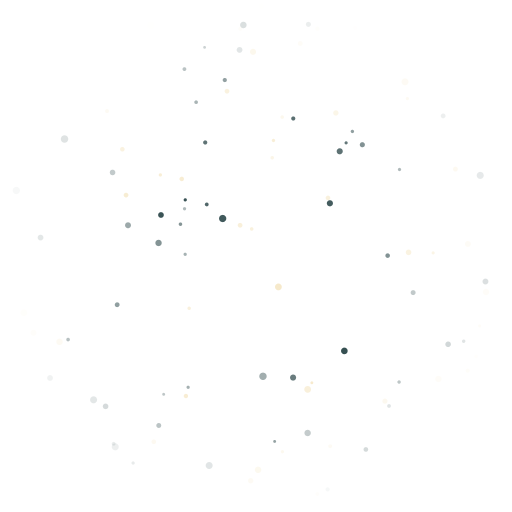
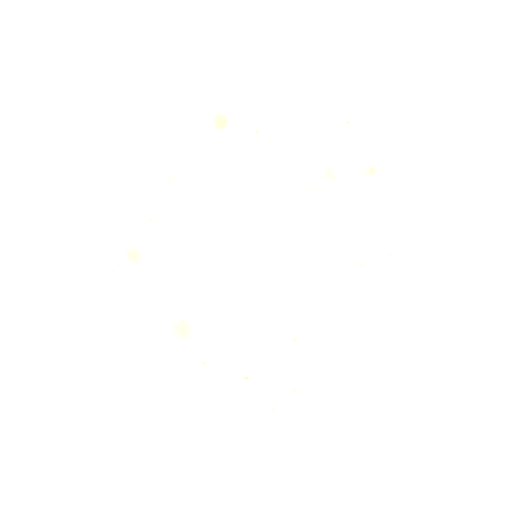
Generate the particles instead of drawing them
The hand-drawn particles sat on the orb instead of in it, and the reason
was the material, not the arrangement. They were opaque discs of flat
colour at a fixed alpha, three tints picked by hand, one of them
near-black. A speck of real dust is a soft bloom that ADDS light to
whatever is behind it, and three overlapping are brighter than one; a
solid #FFFFFF circle at 0.4 is none of that, and a dark one is worse,
because nothing in a shaft of light is darker than the air around it.

So the plates are generated now: fine luminous dust shot on black, with
soft-edged specks, a few blooming into bokeh, in mint, teal and pale
gold. Black is keyed to transparency rather than cut away:

  alpha = how bright the pixel is, so the plate's black becomes nothing
          and every bloom keeps its soft edge in the alpha channel
  rgb   = the pixel's own colour normalised back to full value, so a dim
          gold speck stays gold instead of greying out as it fades

Composited with ordinary source-over that is close to additive while
alpha is small, which is where nearly all of this art lives, so the dust
brightens the field rather than covering it. The key is rescaled from its
floor rather than cut at it, or the faintest dust ends at a visible step,
and a gamma lifts the small specks, which are most of them.

Two adjustments after looking at it:

The cores are knocked to a third and lifted back by half the radius. The
[…]

diff --git a/app/src/components/grain.tsx b/app/src/components/grain.tsx
@@ -86,12 +86,18 @@ const DUST = [
 const DUST_TILE = require("../../assets/checkin-dust-tile.png");
 const TILE = 256;
 
-/* Turn rates, in ms per revolution. Alternating sign, and none of them a
-   multiple of another, so the layers never line back up. */
+/*
+  Turn rates in ms per revolution, alternating sign, none of them a
+  multiple of another so the layers never line back up.
+
+  Three plates of the same material at falling opacity, rather than three
+  equal ones: stacked at full strength they sum to a haze. The one in
+  front carries the dust you read, the two behind it carry the movement.
+*/
 const DRIFT = [
-  { ms: 23000, dir: 1, burst: 1.95 },
-  { ms: 31000, dir: -1, burst: 2.35 },
-  { ms: 41000, dir: 1, burst: 1.65 },
+  { ms: 23000, dir: 1, burst: 1.95, op: 0.78 },
+  { ms: 31000, dir: -1, burst: 2.35, op: 0.6 },
+  { ms: 41000, dir: 1, burst: 1.65, op: 0.42 },
 ];
 
 /*
@@ -149,6 +155,7 @@ export function Dust({
           ms={layer.ms}
           dir={layer.dir}
           to={layer.burst}
+          op={layer.op}
           burst={burst}
         />
       ))}
@@ -200,6 +207,7 @@ function DustLayer({
   ms,
   dir,
   to,
+  op,
   burst,
 }: {
   source: number;
@@ -207,6 +215,7 @@ function DustLayer({
   ms: number;
   dir: number;
   to: number;
+  op: number;
   burst?: Animated.Value;
 }) {
   const spin = useLoop(ms);
@@ -237,6 +246,7 @@ function DustLayer({
           position: "absolute",
           width: size,
           height: size,
+          opacity: op,
           transform: [{ rotate: spinTo(spin, 360 * dir) }],
         }}
       />

diff --git a/app/src/components/CheckinHero.tsx b/app/src/components/CheckinHero.tsx
@@ -247,9 +247,9 @@ export function CheckinHero({
               paddingHorizontal: 24,
               paddingVertical: 13,
               borderRadius: 999,
-              backgroundColor: "rgba(10,38,41,0.34)",
+              backgroundColor: "rgba(10,38,41,0.46)",
               borderWidth: 1,
-              borderColor: "rgba(255,255,255,0.28)",
+              borderColor: "rgba(255,255,255,0.22)",
               /* Goes with the particles rather than sitting there as they leave. */
               opacity: burst.interpolate({ inputRange: [0, 0.45], outputRange: [1, 0], extrapolate: "clamp" }),
             }}
